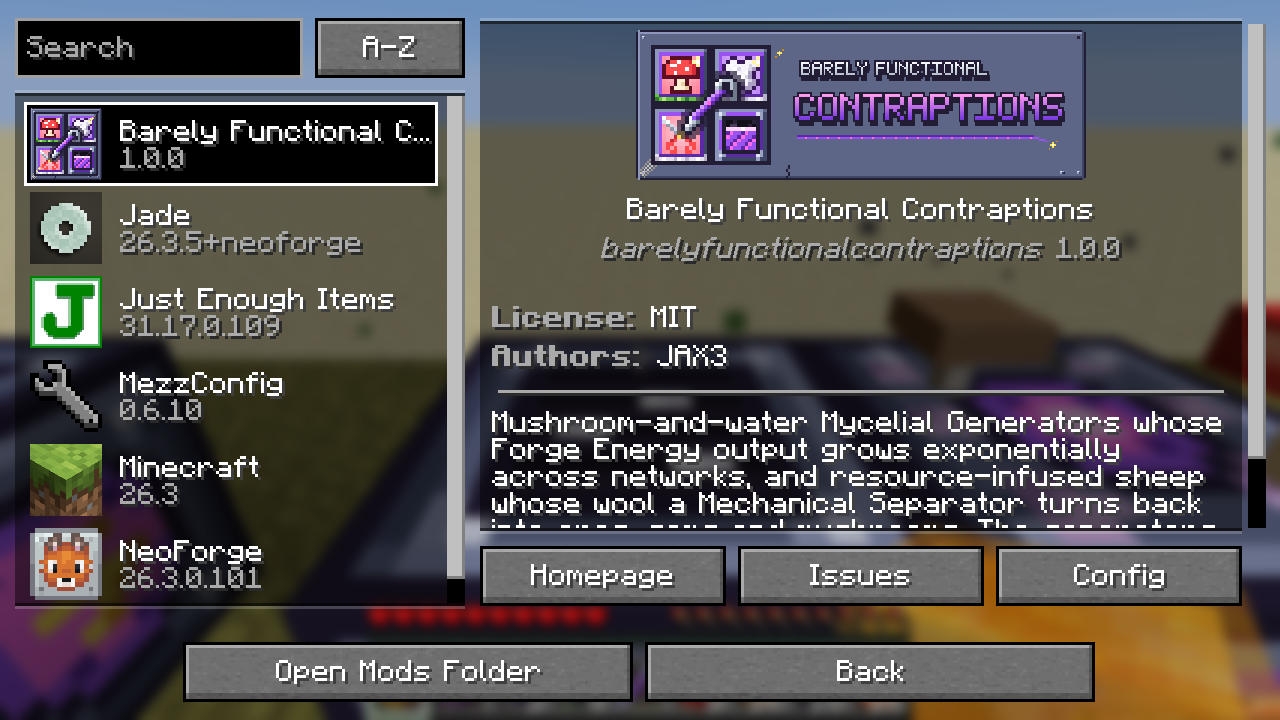
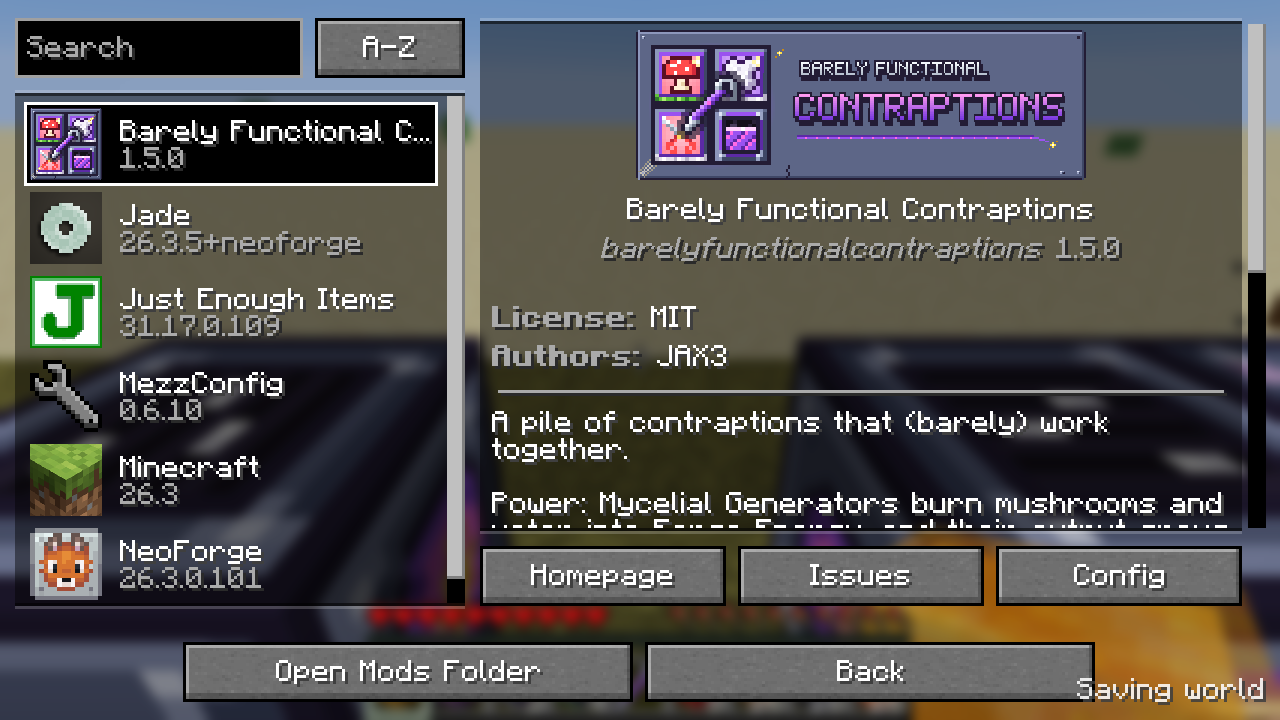
Rewrite the mod list description to cover every contraption
The description now has short paragraphs for power (Mycelial Generators,
Hume Energy Cubes), sheep (infusion, Automatic Shears, Mechanical
Separator), plumbing (Fluid Reservoir) and tools (Barely Functional
Wrench, wireless power).

Also brings the data generator and README in line with the new energy
cube recipe (furnace in the bottom middle), so regenerating the data
no longer reverts it.

Claude-Session: https://claude.ai/code/session_012iurxobutw9xMP3SqHHLFE

diff --git a/tools/sheep/generate_data.py b/tools/sheep/generate_data.py
@@ -489,8 +489,9 @@ def recipes_loot_tags():
             "I": "minecraft:iron_ingot",
             "R": "minecraft:redstone_block",
             "A": "minecraft:amethyst_shard",
+            "F": "minecraft:furnace",
         },
-        "pattern": ["IAI", "ARA", "IAI"],
+        "pattern": ["IAI", "ARA", "IFI"],
         "result": {"id": f"{MOD}:hume_energy_cube"},
     })
     write(os.path.join(DATA, MOD, "recipe", "fluid_reservoir.json"), {

diff --git a/README.md b/README.md
@@ -288,7 +288,7 @@ Any shape works, not just full boxes. L-shapes, rings and walls with bends get p
 ```
 I A I      I = Iron Ingot
 A R A      A = Amethyst Shard
-I A I      R = Block of Redstone
+I F I      R = Block of Redstone   F = Furnace
 ```
 
 ### Creative Generator (testing)
